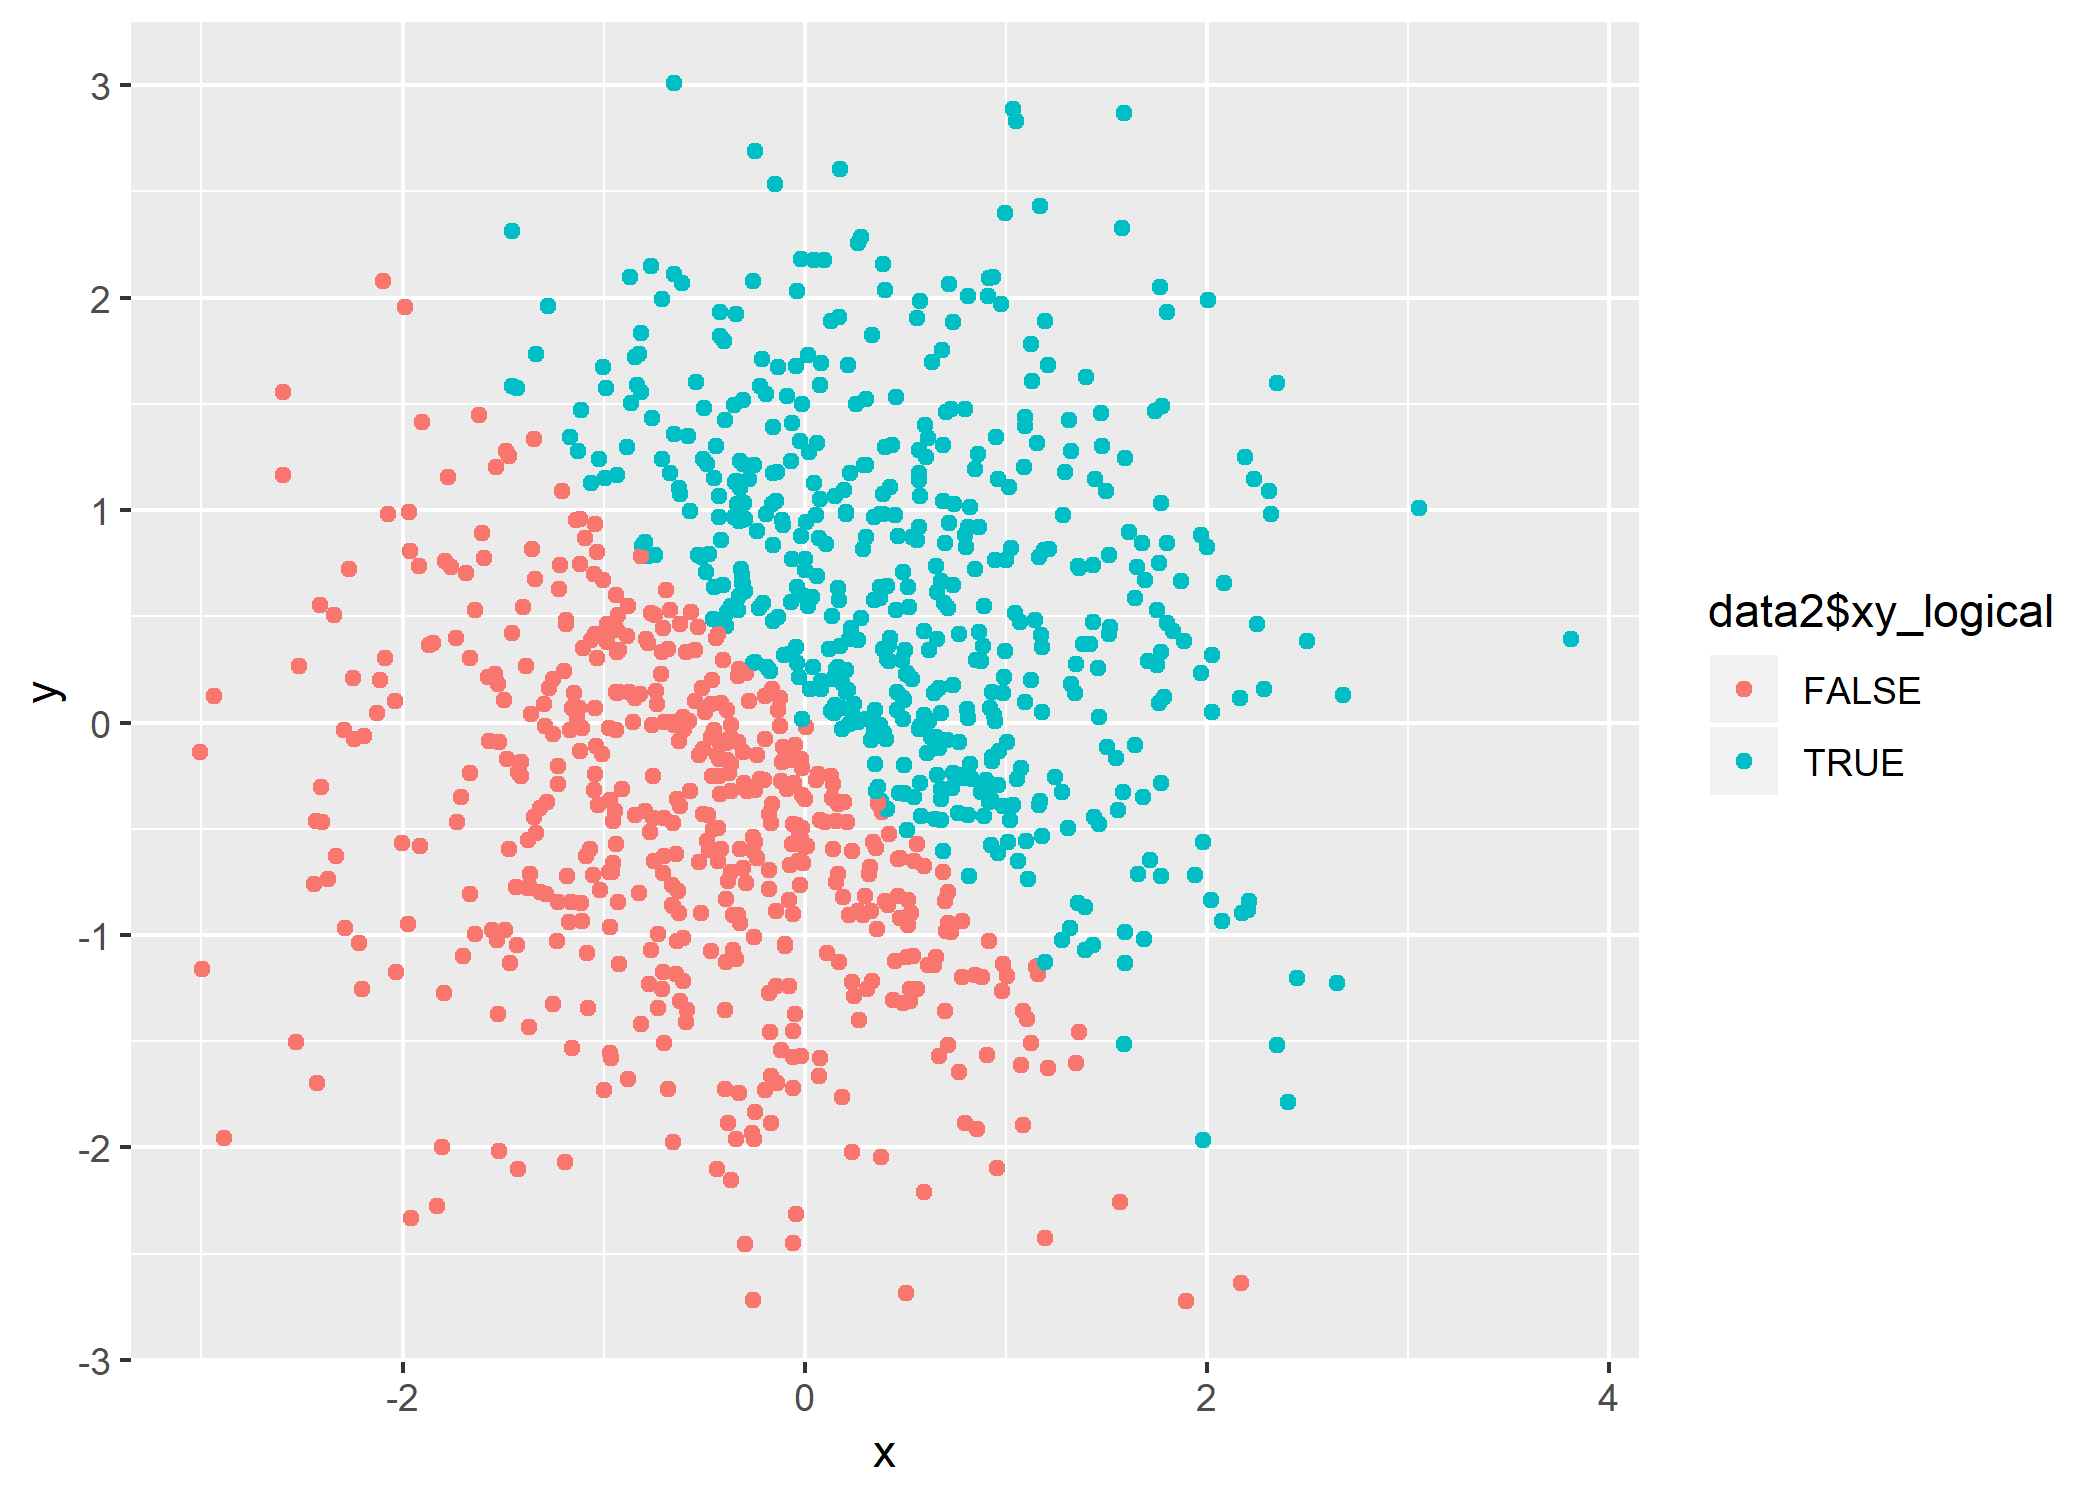
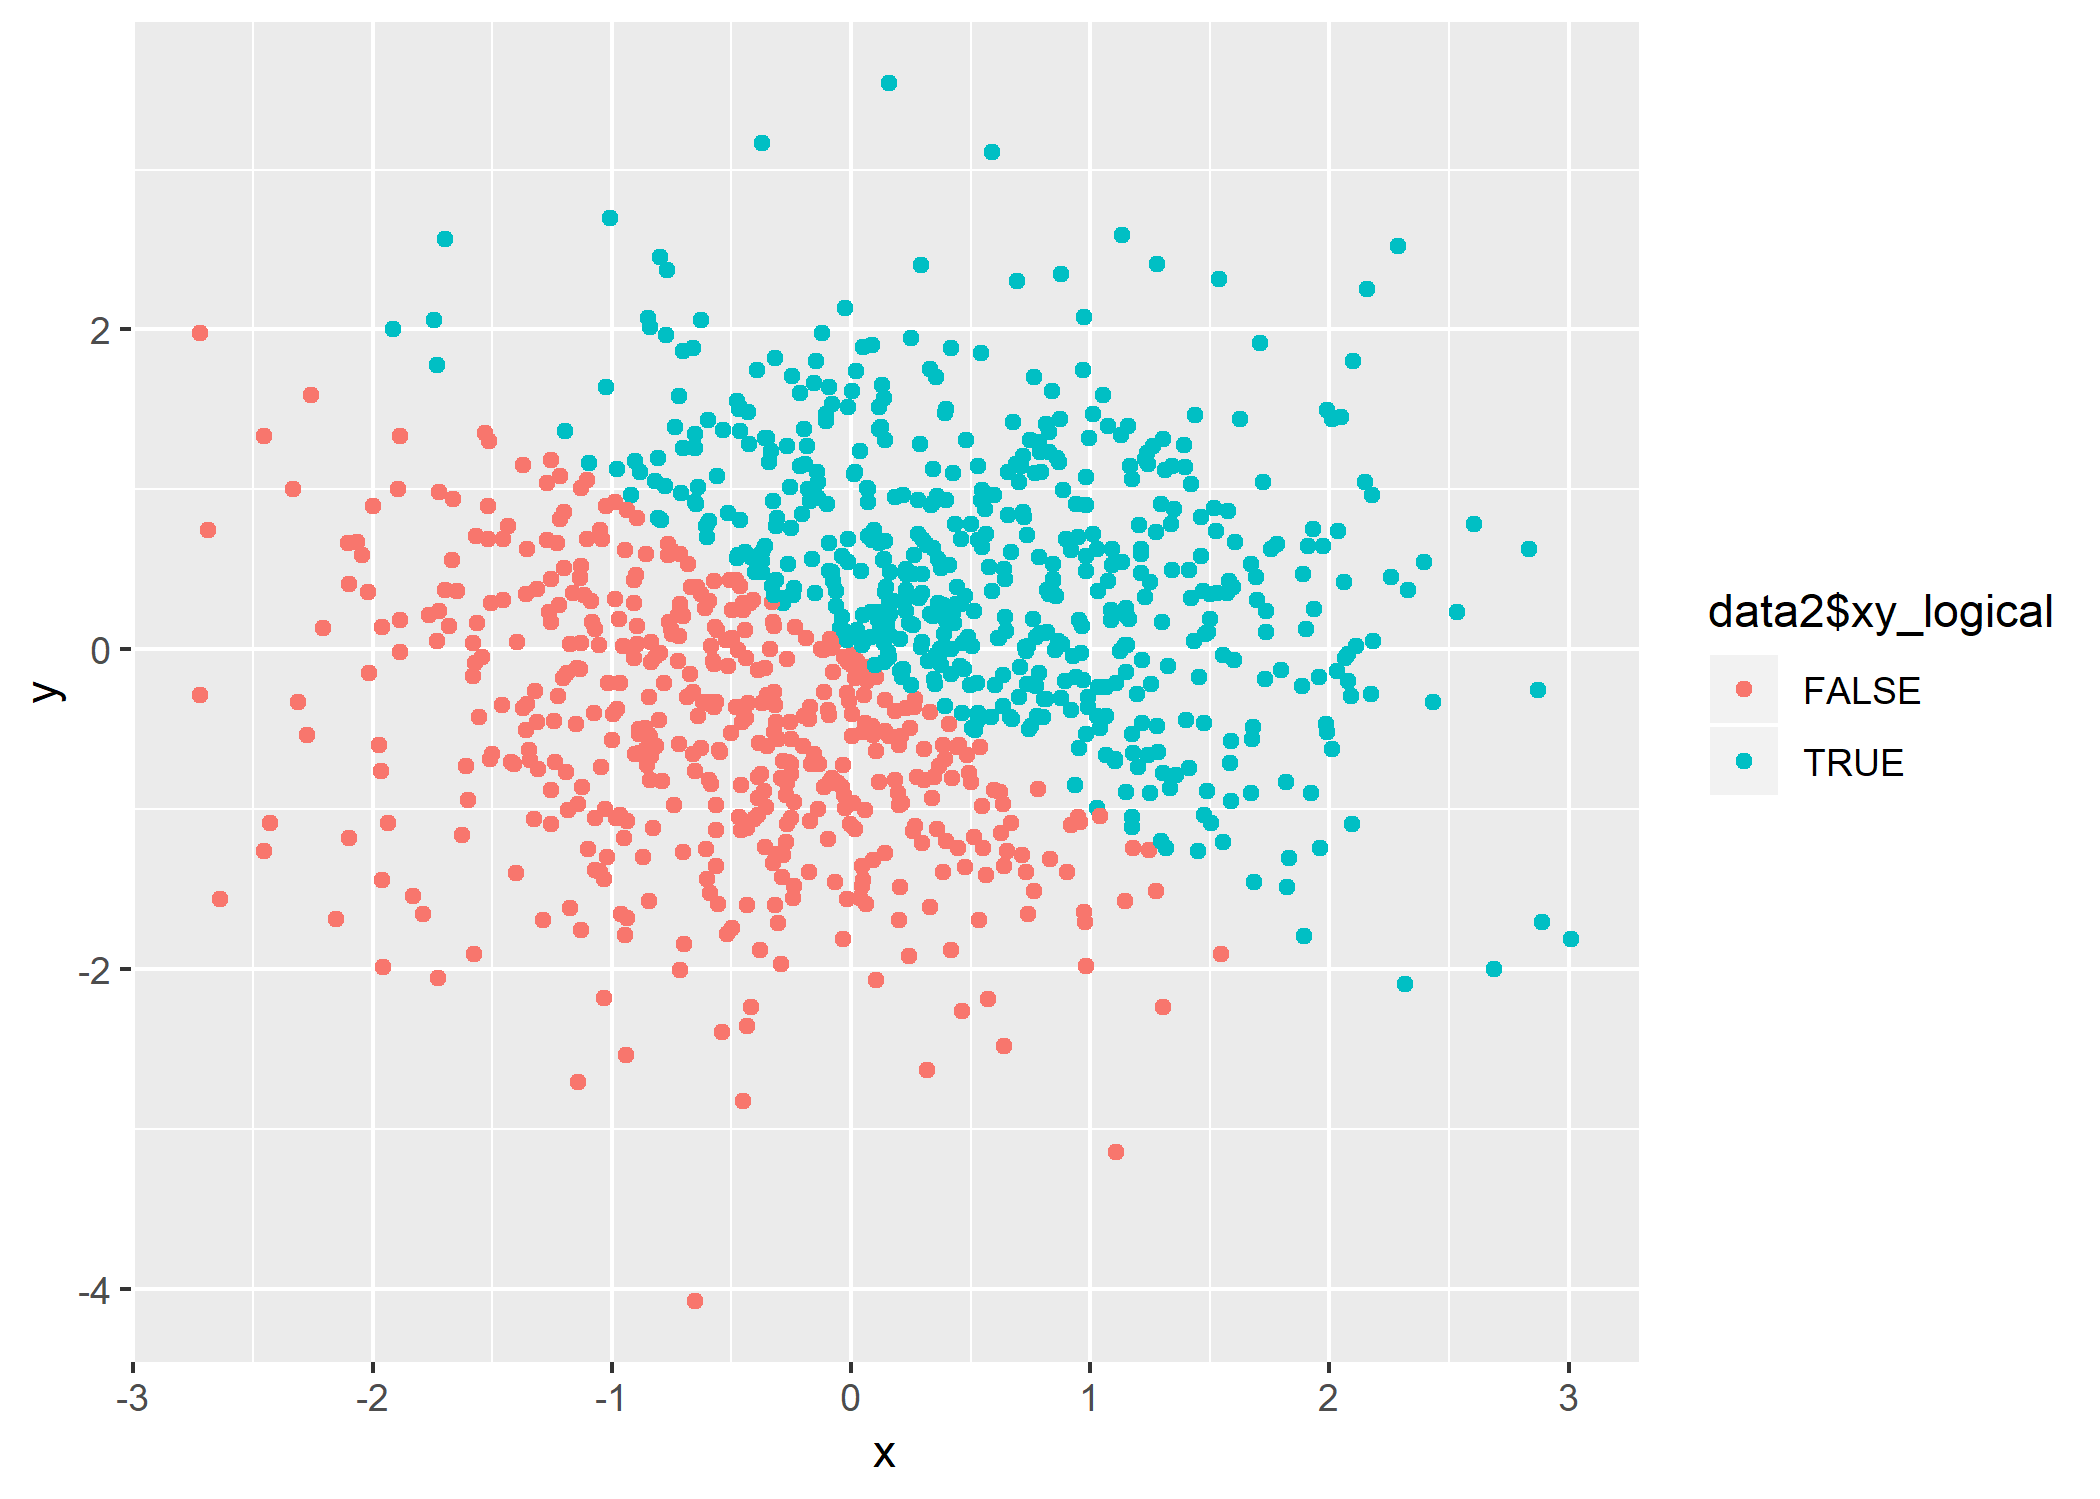
final comments change and style.

diff --git a/p8105_hw1_st3117.md b/p8105_hw1_st3117.md
@@ -61,7 +61,8 @@ logical vector can be convert to numeric, and "true" and "flase"" are treated as
 For factor vectors, R re-orders the factors alphabetically, and assigns numeric numbers to each level. In my case, it assigns 1 to "high" and 2 to "low"."
 Function as.numeric cannot treat character vector in my case and it returns 10 "NA"s. However, if I use number "1", "2" as my character vector, then it will return as numeric vector 1, 2.
 
-### Problem 1\_3 The chunk below does a two-step converting.
+Problem 1\_3 The chunk below does a two-step converting.
+--------------------------------------------------------
 
 ``` r
 # Convert character variable from character to factor to numeric
@@ -86,16 +87,16 @@ Problem 2\_1 The chunks below creates a data frame for later plotting.
 ----------------------------------------------------------------------
 
 ``` r
+set.seed(2)
+
 # Create a random sample x of size 1000 from a standard Normal distribution
-set.seed(1)
 x = rnorm(1000)
 
 # Create a random sample y of size 1000 from a standard Normal distribution
-set.seed(2)
 y = rnorm(1000)
 
 # Create a data frame including:
-# 1. x 2. y
+# 1. x  2. y
 # 3. A logical vector indicating whether the x + y > 0
 # 4. A numeric vector by coercing the above logical vector
 # 5. A factor vector created by coercing the above logical vector
@@ -109,8 +110,8 @@ data2 = tibble(
 ```
 
 The dataset "data2" is a 5 by 1000 table.
-The mean of the variable x is -0.01, while the median of the variable x is -0.04.
-There is 50.6% of cases which the logical vector "x + y &gt; 0" is true.
+The mean of the variable x is 0.06, while the median of the variable x is 0.05.
+There is 53% of cases which the logical vector "x + y &gt; 0" is true.
 
 Problem 2\_2 The chunk below makes scatterplots of y vs x, color points using different variables.
 --------------------------------------------------------------------------------------------------
